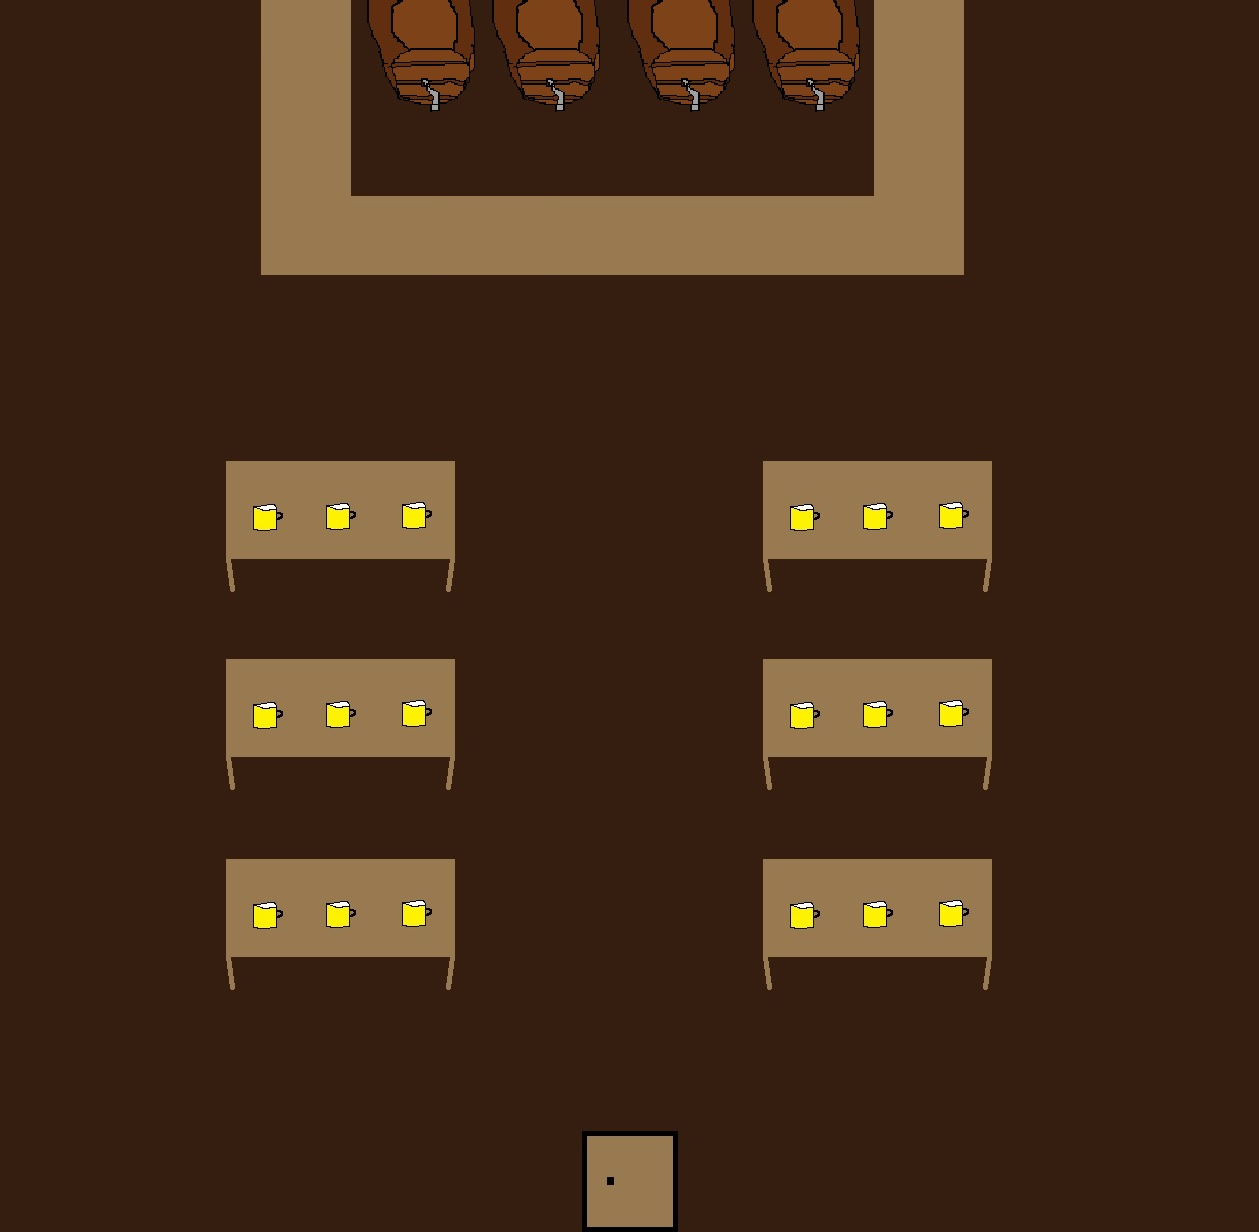
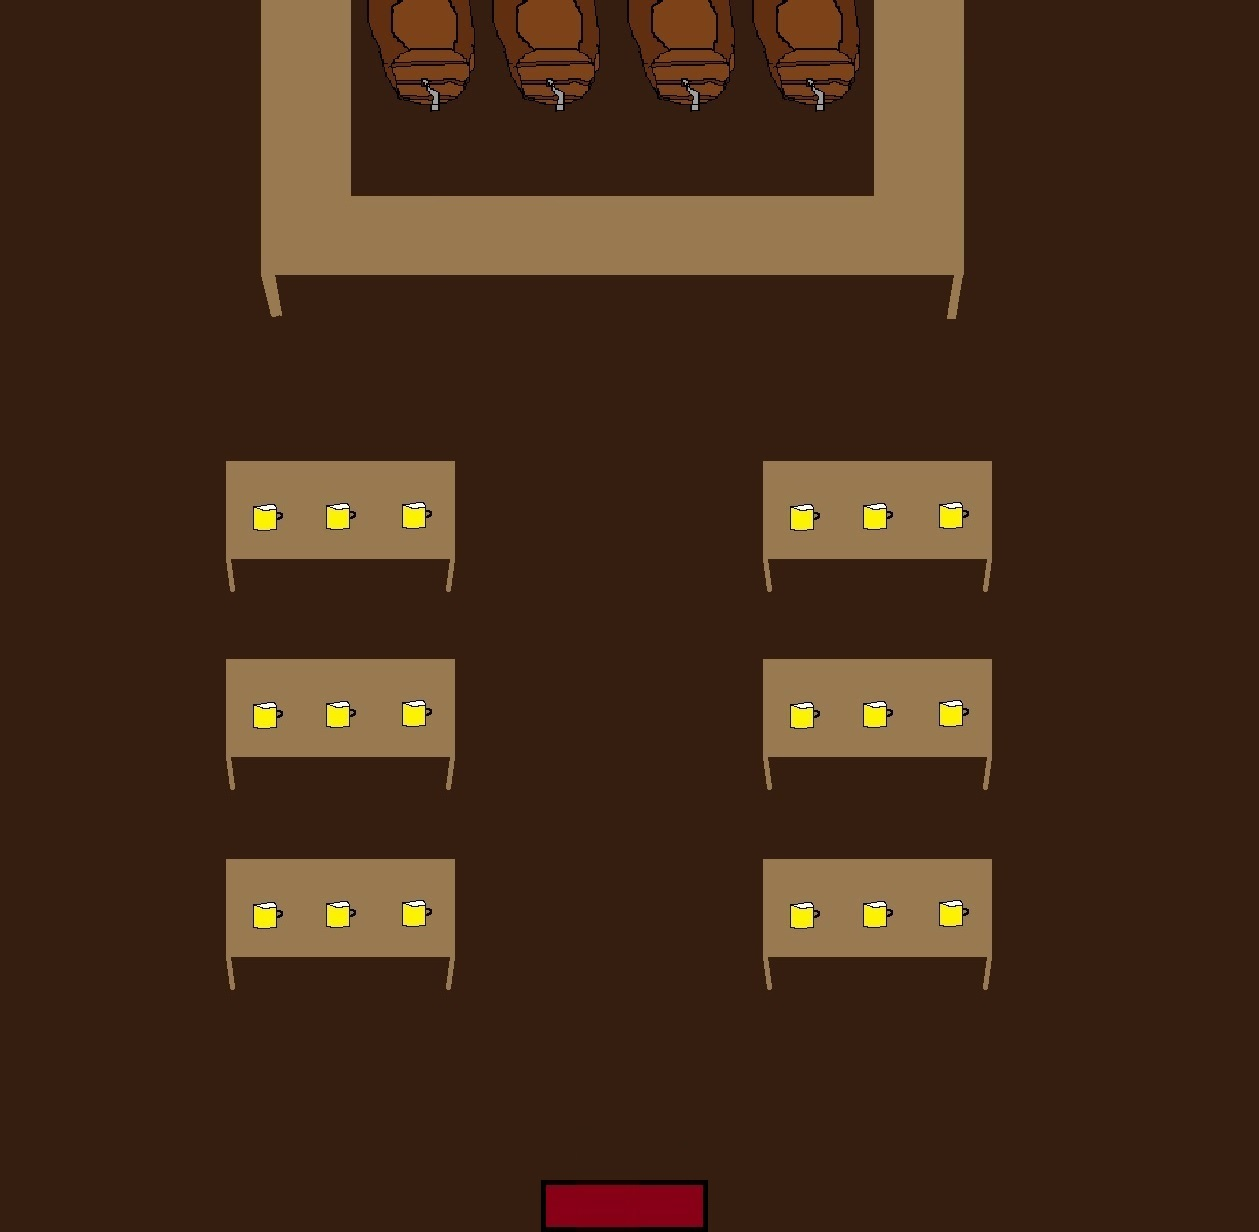
Updated the Building class
Updated the Building class to allow the functionality of returning back to the city when the player walks through the door

diff --git a/location/Building.java b/location/Building.java
@@ -4,6 +4,7 @@ import java.awt.Graphics;
 import java.awt.image.BufferedImage;
 
 import characters.playable.Player;
+import gamestate.Playing;
 import render.GamePanel;
 import utilz.constants.TileConstants;
 
@@ -12,6 +13,7 @@ public class Building extends Location {
     private BufferedImage[][] imgs;
     private Location cityIn;
     private int doorLocX;
+    private int doorLocY;
 
     public Building(String mapFileName, BufferedImage locImg, String name, int xPosWorldMap, int yPosWorldMap,
             int width, int height, Location cityIn, int doorLoc) {
@@ -21,6 +23,7 @@ public class Building extends Location {
         this.doorLocX = doorLoc * GamePanel.TILE_SIZE;
         this.isInBuilding = true;
         this.loadImgArr();
+        this.doorLocY = (imgs.length - 1) * GamePanel.TILE_SIZE;
         this.calcOffsetsAndBorders();
     } //Building
 
@@ -54,7 +57,7 @@ public class Building extends Location {
 
 
     @Override
-    public void update() {
+    public void update(Playing playing) {
         if (left && !right) {
             if (canMove((int)(playerX - movementSpeedX), playerY)) {
                 playerX -= movementSpeedX;
@@ -72,14 +75,13 @@ public class Building extends Location {
                 playerY -= movementSpeedY;
             } //if
         } //if
-        //checkCloseToBorder();
+        checkCloseToBorder();
 
-        int xToCheck = doorLocX * GamePanel.TILE_SIZE;
-        int yToCheck = (imgs.length - 1) * GamePanel.TILE_SIZE;
-        if (playerX >= xToCheck && playerX <= xToCheck + GamePanel.TILE_SIZE && 
-            playerY >= yToCheck && playerY <= yToCheck + GamePanel.TILE_SIZE) {
+        if (playerX >= doorLocX && (playerX <= doorLocX + GamePanel.TILE_SIZE) && 
+            playerY >= doorLocY && (playerY <= doorLocY + GamePanel.TILE_SIZE)) {
                 //This is going to change the location back to the city if the user enters the tile
                 //that holds the door to the building.
+                playing.setCurrLocation(cityIn);
         } //if
     } //update
 
@@ -101,9 +103,21 @@ public class Building extends Location {
         this.maxWidth = tilesWide * GamePanel.TILE_SIZE;
         this.maxHeight = tilesHigh * GamePanel.TILE_SIZE;
 
-        this.maxTilesOffsetX = tilesWide - GamePanel.TILES_WIDE;
+        //If the number of tiles in the building surpasses the number of tiles on the screen,
+        //Then the maxTilesOffset will be set to the number of tiles in the building minus
+        //the number of tiles on the screen. Else, the max offset will be the number of tiles
+        //in the building.
+        if (tilesWide > GamePanel.TILES_WIDE) {
+            this.maxTilesOffsetX = tilesWide - GamePanel.TILES_WIDE;
+        } else {
+            this.maxTilesOffsetX = tilesWide;
+        } //if
+        if (tilesHigh > GamePanel.TILES_HIGH) {
+             this.maxTilesOffsetY = tilesHigh - GamePanel.TILES_HIGH;
+        } else {
+             this.maxTilesOffsetY = tilesHigh;
+        } //if
         this.maxOffsetX = maxTilesOffsetX * GamePanel.TILE_SIZE;
-        this.maxTilesOffsetY = tilesHigh - GamePanel.TILES_HIGH;
         this.maxOffsetY = maxTilesOffsetY * GamePanel.TILE_SIZE;
 
         this.leftBorder = (int)(0.2 * GamePanel.SCREEN_WIDTH);

diff --git a/gamestate/Playing.java b/gamestate/Playing.java
@@ -30,7 +30,7 @@ public class Playing implements GameStateInterface {
 
     @Override
     public void update() {
-        currLocation.update();
+        currLocation.update(this);
     } //update
 
     @Override
@@ -83,7 +83,7 @@ public class Playing implements GameStateInterface {
             case 'W':
                 currLocation.setUp(false);
                 break;
-        }
+        } //switch
     } //keyReleased
 
     @Override
@@ -93,7 +93,7 @@ public class Playing implements GameStateInterface {
             if (tile >= TileConstants.ID.NOBLE_HOME_1 && tile <= TileConstants.ID.WEAPON_SHOP_12) {
                 this.currLocation = HelperMethods.DetermineBuilding(tile);
                 currLocation.setPlayerX(currLocation.getDoorLocX());
-                currLocation.setPlayerY((currLocation.getImgs().length * GamePanel.TILE_SIZE) - GamePanel.TILE_SIZE);
+                currLocation.setPlayerY((currLocation.getImgs().length * GamePanel.TILE_SIZE) - (GamePanel.TILE_SIZE * 2));
             } //if
         } //if
     } //mouseClicked
@@ -108,8 +108,12 @@ public class Playing implements GameStateInterface {
     } //mouseWheelMoved
 
 
+
     public void setCurrLocation(Location location) {
         this.currLocation = location;
     } //setCurrLocation
-    
-}
+    public Game getGame() {
+        return this.game;
+    } //getGame
+
+} //Playing

diff --git a/location/Location.java b/location/Location.java
@@ -6,6 +6,7 @@ import java.awt.Rectangle;
 import java.awt.image.BufferedImage;
 
 import characters.playable.Player;
+import gamestate.Playing;
 import render.GamePanel;
 import utilz.HelperMethods;
 import utilz.constants.TileConstants;
@@ -53,17 +54,18 @@ public class Location {
 
 
 
-    public void update() {
+    public void update(Playing playing) {
+        int playerSize = playing.getGame().getPlayer().getImgSize();
         if (left && !right) {
             if (canMove((int)(playerX - movementSpeedX), playerY)) {
                 playerX -= movementSpeedX;
             } //if
         } else if (right && !left) {
-            if (canMove((int)(playerX + movementSpeedX), playerY)) {
+            if (canMove((int)(playerX + playerSize + movementSpeedX), playerY)) {
                 playerX += movementSpeedX;
             } //if
         } else if (down && !up) {
-            if (canMove(playerX, (int)(playerY + movementSpeedY))) {
+            if (canMove(playerX, (int)(playerY + playerSize + movementSpeedY))) {
                 playerY += movementSpeedY;
             } //if
         } else if (up && !down) {

diff --git a/utilz/constants/BuildingConstants.java b/utilz/constants/BuildingConstants.java
@@ -11,7 +11,7 @@ public class BuildingConstants {
         tavern = new Building("Atrya.jpg", HelperMethods.LoadImage("/buildings/tavern/TavernInterior.jpg"), "Everton Tavern", 
             HelperMethods.calcX(1490), HelperMethods.calcY(900), 
             HelperMethods.calcX(125), HelperMethods.calcY(125),
-            LocationConstants.everton, 7);
+            LocationConstants.everton, 9);
     } //InitBuildings
 
 } //BuildingConstants
